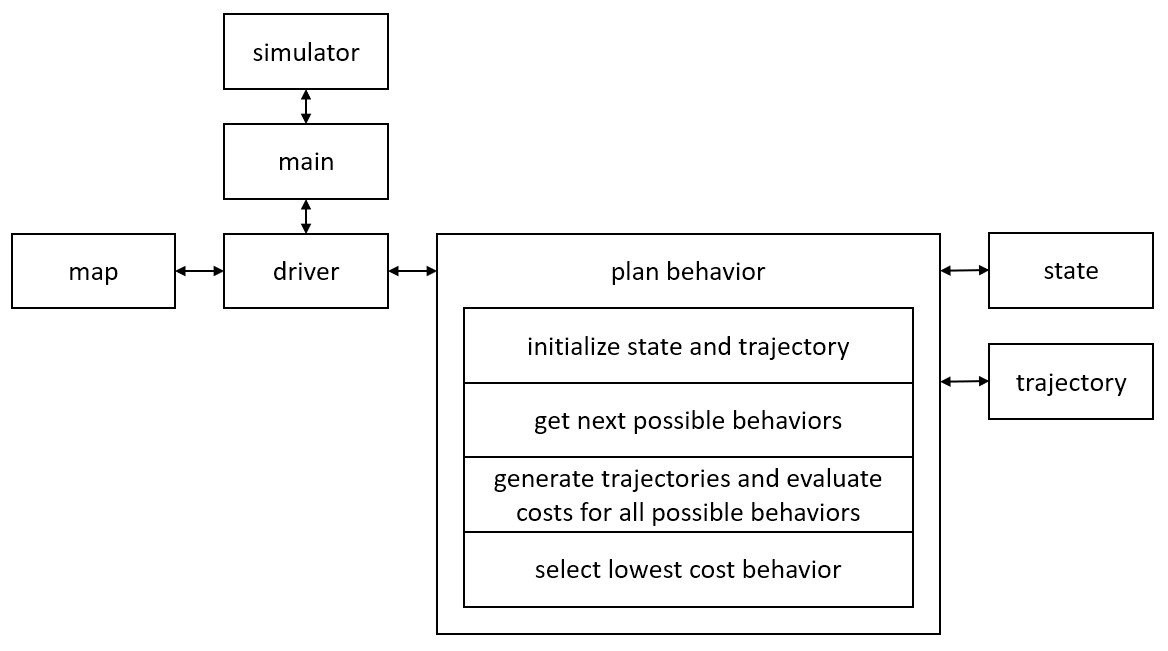
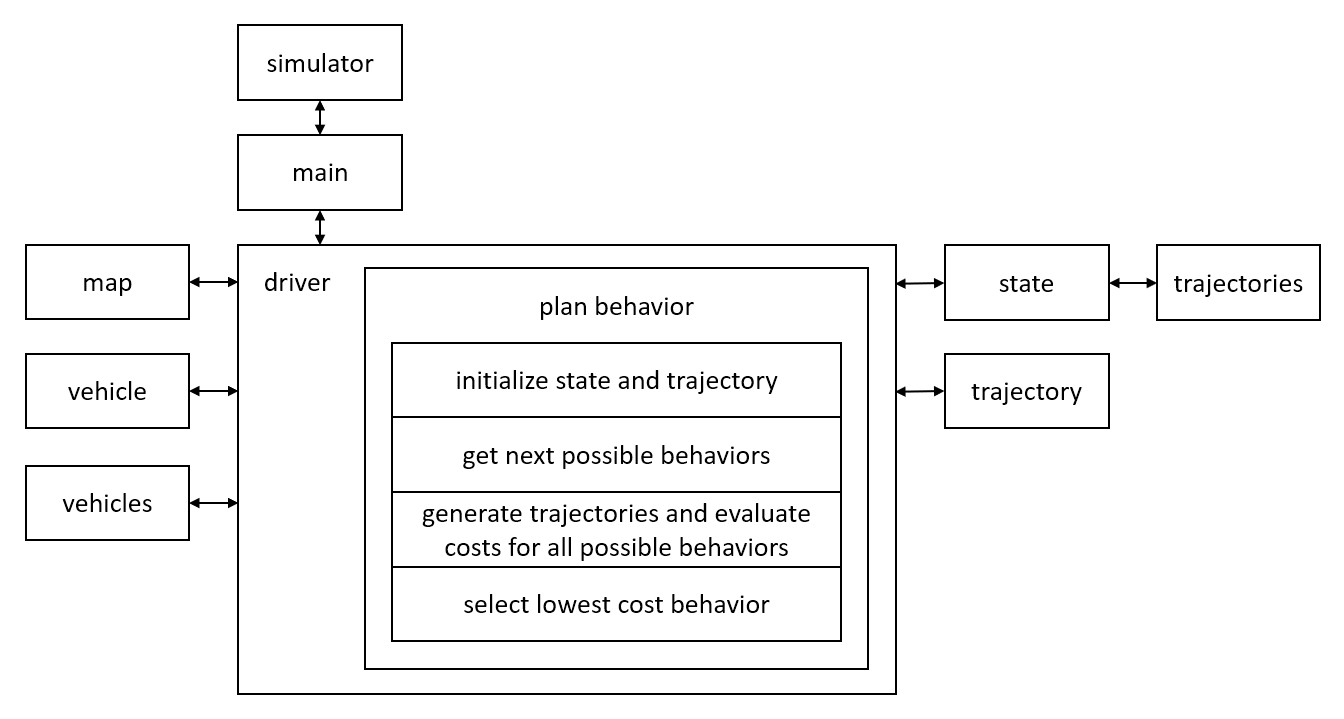
FINAL

diff --git a/README.md b/README.md
@@ -298,117 +298,301 @@ const long NO_STEP_INCREASE = 0;
 
 ### 1. Program flow
 
-Test
+The flow of the path planning program is defined by the interactions of its objects. The following chart visualizes on a very high level how the individual objects work together. The core of the program is the `PlanBehavior()` method of the `driver` object inside the `main()` function. It initializes and updates the state and trajectory object, determines the next possible behaviors (using the state object), calculates trajectories for all of these behaviors (using the state object which generates new trajectory objects) including their costs (using the individual trajectory objects as well as the objects for the own vehicle and other vehicles) and finally selects the lowest cost behavior.
 
 ![alt text][image1]
 
 ### 3. Finite state model
 
-Test
+The below finite state model is used to determine the next possible behavior. Longitudinal states (ACCELERATE, KEEP SPEED and DECELERATE) thermselves allow every possible transition inbetween them. But these transitions get limited by the selection of the lateral state (KEEP LANE, PREPARE LANE CHANGE LEFT, PREPARE LANE CHANGE RIGHT, CHANGE LANE LEFT and CHANGE LANE RIGHT) as indicated by the colors.
 
 ![alt text][image2]
 
 ### 4. Jerk minimizing trajectories
 
-Test
+The jerk minimizing trajectory formulas are implemented in the `helper_functions.cpp` file. The first step is to determine the coefficients for the polynomial. This is done using the matrix and vector functions below. The inputs are the state vector at the start `start` and end `end` of the trajectory as well as the duration `T` of the trajectory segment.
+
+```C
+// determine polynomial coefficients for jerk minimizing trajectory
+vector<double> JerkMinimizingTrajectoryCoefficients(vector<double> start, vector<double> end, double T) {
+	
+	// define variables
+	double T2 = 0.0;
+	double T3 = 0.0;
+	double T4 = 0.0;
+	double T5 = 0.0;
+	MatrixXd T_matrix(3, 3);
+	VectorXd diff_vector(3);
+	VectorXd poly_vector;
+	vector<double> poly;
+	
+	// determine time values
+	T2 = pow(T, 2);
+	T3 = pow(T, 3);
+	T4 = pow(T, 4);
+	T5 = pow(T, 5);
+	
+	// determine time matrix
+	T_matrix <<     T3,      T4,      T5,
+	            3 * T2,  4 * T3,  5 * T4,
+	             6 * T, 12 * T2, 20 * T3;
+	
+	// determine difference based on start and end
+	diff_vector << end[0] - (start[0] + start[1] * T + 0.5 * start[2] * T2),
+	               end[1] - (start[1] + start[2] * T),
+	               end[2] - (start[2]);
+	
+	// calculate polynomial coefficients vector
+	poly_vector = T_matrix.inverse() * diff_vector;
+	
+	// determine polynomial coefficients
+	poly = (vector<double>){start[0], start[1], (0.5 * start[2]), poly_vector[0], poly_vector[1], poly_vector[2]};
+	
+	return poly;
+	
+}
+```
+
+The final step is to calculate the state at any given time `t` within the trajectory segment. This is also implemented in the `helper_functions.cpp` file as follows:
+
+```C
+// determine states with jerk minimizing trajectory
+vector<double> JerkMinimizingTrajectoryState(vector<double> poly, vector<double> start, double t) {
+	
+	// define variables
+	double t2 = 0.0;
+	double t3 = 0.0;
+	double t4 = 0.0;
+	double t5 = 0.0;
+	double state = 0.0;
+	double state_d = 0.0;
+	double state_dd = 0.0;
+	double state_ddd = 0.0;
+	
+	//initialize outputs
+	vector<double> states;
+	
+	// determine time values
+	t2 = pow(t, 2);
+	t3 = pow(t, 3);
+	t4 = pow(t, 4);
+	t5 = pow(t, 5);
+		
+	// determine states
+	state     =      (start[0]) +       (start[1]) * t + (0.5 * start[2]) * t2 +        (poly[3]) * t3 +       (poly[4]) * t4 + (poly[5]) * t5;
+	state_d   =      (start[1]) +       (start[2]) * t +  (3.0 * poly[3]) * t2 +  (4.0 * poly[4]) * t3 + (5.0 * poly[5]) * t4;
+	state_dd  =      (start[2]) +  (6.0 * poly[3]) * t + (12.0 * poly[4]) * t2 + (20.0 * poly[5]) * t3;
+	state_ddd = (6.0 * poly[3]) + (24.0 * poly[4]) * t + (60.0 * poly[5]) * t2;
+	
+	return (vector<double>){state, state_d, state_dd, state_ddd};
+	
+}
+```
 
 ### 5. Cost functions
 
-In this project the prediction step of the particle filter assumes a linear bicycle motion model.
+The absolute core of a path planning algorithm is the tuning of cost functions to ensure expected and safe behavior of the artificial driver. Only 4 cost functions are needed to safely and efficiently drive in the simulator environment.
+
+First we need to always ensure that there is no collision. The `CostStepsToCollision()` method withing the `Vehicle` class calculates a cost based on the number of steps before a collision. 50 steps have been identified to be a good value for an average normalized cost of 0.5. Lower steps lead to higher cost and larger steps lead to lower cost as shown in the first diagram further below.
+
+```C
+// determine collision cost
+double Vehicle::CostStepsToCollision(Trajectory trajectory, vector<Vehicle> vehicles, const double &weight) {
+	
+	// define variables
+	unsigned long collision_steps = 0;
+	double cost_exp = 0.0;
+	
+	// initialize outputs
+	double cost = ZERO_COST;
+	
+	// check for collision and adjust cost
+	collision_steps = DetectCollision(trajectory, vehicles);
+	
+	// calculate cost
+	cost_exp = exp((NO_HARMFUL_COLLISION_STEPS - collision_steps) / COST_STEPS_TO_COLLISION_SHAPE_FACTOR);
+	cost = cost_exp / (cost_exp + 1);
+	
+	return cost;
+	
+}
+```
+
+Second we need ensure that there is always enough space on the left or right side of the own vehicle before making a lane change. The `CostSpaceInIntendedLane()` method withing the `Vehicle` class calculates either zero or maximum normalized cost based on whether there is space or there is not.
+
+```C
+// determine whether there is enough space in the intended lane
+double Vehicle::CostSpaceInIntendedLane(Trajectory trajectory, vector<Vehicle> vehicles, const double &weight) {
+	
+	// define variables
+	vector<Vehicle> vehicles_ahead;
+	vector<Vehicle> vehicles_behind;
+	unsigned int count = 0;
+	Vehicle current_vehicle;
+	double distance_to_current_vehicle = 0.0;
+	double minimum_distance_ahead = std::numeric_limits<double>::max();
+	Vehicle vehicle_ahead;
+	double minimum_distance_behind = std::numeric_limits<double>::max();
+	Vehicle vehicle_behind;
+	bool enough_space = false;
+	
+	// initialize outputs
+	double cost = ZERO_COST;
+	
+	// get vehicles in front and behind of own vehicle in intended lane
+	vehicles_ahead = this->Ahead(vehicles, trajectory.Get_intended_lane());
+	vehicles_behind = this->Behind(vehicles, trajectory.Get_intended_lane());
+	
+	// determine vehicle directly in front of own vehicle
+	...
+	
+	// determine vehicle directly behind of own vehicle
+	...
+	
+	// determine space needed
+	enough_space = ((minimum_distance_ahead >= (AHEAD_SPACE_FACTOR * vehicle_ahead.Get_length())) && (minimum_distance_behind >= (BEHIND_SPACE_FACTOR * vehicle_behind.Get_length())));
+	
+	// calculate cost
+	if (enough_space) {
+		
+		cost = ZERO_COST;
+		
+	} else {
+		
+		cost = weight * MAX_NORMALIZED_COST;
+		
+	}
+	
+	return cost;
+	
+}
+```
+
+Third we need to ensure that we always pick the fastest feasible lane to advance as quickly as possible. The `CostSpeedInIntendedLane()` method withing the `Vehicle` class calculates a cost based on the speed of the vehicle in the intended lane in front of our own vehicle. The cost is 0 at the maximum allowable speed and increases to 1 during a standstill as shown in the second diagram further below.
+
+```C
+// determine cost for speed in intended lane
+double Vehicle::CostSpeedInIntendedLane(Trajectory trajectory, vector<Vehicle> vehicles, const double &weight) {
+	
+	// define variables
+	vector<Vehicle> vehicles_ahead;
+	unsigned int count = 0;
+	Vehicle current_vehicle;
+	double distance_to_current_vehicle = 0.0;
+	double minimum_distance = std::numeric_limits<double>::max();
+	Vehicle vehicle_ahead;
+	double lane_speed = 0.0;
+	
+	// initialize outputs
+	double cost = ZERO_COST;
+	
+	// get vehicles in front of own vehicle in intended lane
+	vehicles_ahead = this->Ahead(vehicles, trajectory.Get_intended_lane());
+	
+	// determine vehicle directly in front of own vehicle
+	...
+	
+	// get speed of intended lane
+	if (minimum_distance > VEHICLE_AHEAD_WITHIN_DISTANCE) {
+		
+		lane_speed = MAX_SPEED;
+		
+	} else {
+		
+		lane_speed = min(vehicle_ahead.Get_v(), MAX_SPEED);
+		
+	}
+	
+	// calculate cost
+	cost = weight * (-(lane_speed - MAX_SPEED) / ((COST_SPEED_IN_INTENDED_LANE_SHAPE_FACTOR * lane_speed) + MAX_SPEED));
+	
+	return cost;
+	
+}
+```
+
+Forth we must not forget that while driving safe is key we also need to advance. The `CostTravelDistance()` method withing the `Vehicle` class calculates a cost based on how far the trajectory reaches. The cost is 0 at the distance that you can achieve driving at the maximum allowable speed limit in the given time interval and increases to 1 during a standstill with no travel as shown in the third diagram further below.
+
+```C
+// determine cost for travel distance
+double Vehicle::CostTravelDistance(Trajectory trajectory, const double &weight) {
+	
+	// define variables
+	double travel_distance = 0.0;
+	
+	// initialize outputs
+	double cost = ZERO_COST;
+	
+	// calculate travel distance
+	travel_distance = trajectory.Get_s()[trajectory.Get_s().size() - 1] - this->Get_s();
+	
+	// calculate cost
+	cost = weight * (-(travel_distance - MAX_TRAVEL_DISTANCE) / ((COST_TRAVEL_DISTANCE_SHAPE_FACTOR * travel_distance) + MAX_TRAVEL_DISTANCE));
+	
+	return cost;
+	
+}
+```
 
 <img src="docu_images/190119_StAn_Udacity_SDCND_PP_Cost_Function_Collision.jpg" width="32%"> <img src="docu_images/190119_StAn_Udacity_SDCND_PP_Cost_Function_Speed.jpg" width="32%"> <img src="docu_images/190119_StAn_Udacity_SDCND_PP_Cost_Function_Travel.jpg" width="32%">
 
+It is important to note that the absolute cost is actually not that important. The important characteristic is the relative cost difference between the individual trajectories. Therefore, areas in the cost function with large changes lead to larger changes between trajectories with different input values to the cost function. This is important to consider when tuning and balancing cost functions to pick one trajectory over the other. For example a less aggressive driver that stays further away from other vehicles would need a `CostStepsToCollision()` method that has larger changes at lower number of steps before a collision (above diagram on the left). The current setting uses high, but also very flat cost and hence leads to an aggressive driving behavior.
+
 ### 6. Debugging environment
 
+In order to debug the path planning program efficiently, several functions have been added to display the content of all the input and output variables of each relevant object method.
 
-
-The distance between two points is calculated with the following function:
+The debug options are controlled by the following constants within the `helper_functions.h()` file. If `bFILEOUTPUT` is `true`, the standard output is redirected into the file `out.txt` (inside the `build` folder). If `bDISPLAY` is `true`, more information about input and output variables is displayed to the standard output. There is a constant boolean for each relevant method to turn debugging of its inputs and outputs on or off. As vehicle and trajectory objects can have a lot of content, there are two global parameters that control whether the content of these objects is displayed or not (`bDISPLAY_VEHICLES`, `bDISPLAY_TRAJECTORIES`).
 
 ```C
-inline double dist(double x1, double y1, double x2, double y2) {
-	return sqrt((x2 - x1) * (x2 - x1) + (y2 - y1) * (y2 - y1));
-}
+const bool bFILEOUTPUT = true;
+const string OUTPUT_FILENAME = "out.txt";
+const bool bDISPLAY = true;
+const bool bDISPLAY_DRIVER_PLANBEHAVIOR = true;
+const bool bDISPLAY_DRIVER_SETVEHICLES = false;
+const bool bDISPLAY_MAP_INIT = false;
+const bool bDISPLAY_MAP_XY2FRENET = false;
+const bool bDISPLAY_MAP_FRENET2XY = false;
+const bool bDISPLAY_MAP_CLOSESTWAYPOINT = false;
+const bool bDISPLAY_MAP_NEXTWAYPOINT = false;
+const bool bDISPLAY_VEHICLES = false;
+const bool bDISPLAY_VEHICLE_UPDATE = false;
+const bool bDISPLAY_VEHICLE_AHEAD = false;
+const bool bDISPLAY_VEHICLE_BEHIND = false;
+const bool bDISPLAY_VEHICLE_PREDICTTRAJECTORY = false;
+const bool bDISPLAY_VEHICLE_GETLANED = false;
+const bool bDISPLAY_VEHICLE_DETERMINELANE = false;
+const bool bDISPLAY_VEHICLE_CHECKINSIDELANE = false;
+const bool bDISPLAY_VEHICLE_DETECTCOLLISION = false;
+const bool bDISPLAY_VEHICLE_COSTSTEPSTOCOLLISION = false;
+const bool bDISPLAY_VEHICLE_COSTSPACEININTENDEDLANE = false;
+const bool bDISPLAY_VEHICLE_COSTSPEEDININTENDEDLANE = false;
+const bool bDISPLAY_VEHICLE_COSTTRAVELDISTANCE = false;
+const bool bDISPLAY_VEHICLE_TRAJECTORYCOST = true;
+const bool bDISPLAY_PATH_SET = false;
+const bool bDISPLAY_TRAJECTORIES = false;
+const bool bDISPLAY_TRAJECTORY_INIT = false;
+const bool bDISPLAY_TRAJECTORY_START = false;
+const bool bDISPLAY_TRAJECTORY_ADD = false;
+const bool bDISPLAY_TRAJECTORY_ADDJERKMINIMIZINGTRAJECTORY = false;
+const bool bDISPLAY_TRAJECTORY_GENERATE = false;
+const bool bDISPLAY_TRAJECTORY_VALID = false;
+const bool bDISPLAY_TRAJECTORY_REMOVEFIRSTSTEPS = false;
+const bool bDISPLAY_TRAJECTORY_KEEPFIRSTSTEPS = false;
+const bool bDISPLAY_STATE_INIT = true;
+const bool bDISPLAY_STATE_SETBEHAVIOR = false;
+const bool bDISPLAY_STATE_GETNEXTPOSSIBLEBEHAVIORS = true;
+const bool bDISPLAY_STATE_GENERATETRAJECTORYFROMBEHAVIOR = false;
+const string DISPLAY_PREFIX = "    ";
+const unsigned int DISPLAY_COLUMN_WIDTH = 15;
 ```
 
-The transformation between vehicle coordinates (observations with change/distance relative to the vehicle) and global map coordinates (particles with position as offset and heading angle alpha) is calculated with the following equations:
+The below functions inside the `helper_functions.cpp` file are used to convert the variable contents into a single string that can be displayed. Also, each object contains a `CreateString()` method to convert its content into a single string.
 
 ```C
-	// transformations
-	x_map = x_offset_map + (cos(alpha) * x_change_relative) - (sin(alpha) * y_change_relative);
-	y_map = y_offset_map + (sin(alpha) * x_change_relative) + (cos(alpha) * y_change_relative);
-```
-
-The [multi-variate Gaussian distribution](https://en.wikipedia.org/wiki/Multivariate_normal_distribution) is calculated with the following function:
-
-```C
-inline double mvg(double x_value, double y_value, double mu_x, double mu_y, double s_x, double s_y) {
-	return (1 / (2 * M_PI * s_x * s_y)) * exp(-((pow(x_value - mu_x, 2) / (2 * pow(s_x, 2))) + (pow(y_value - mu_y, 2) / (2 * pow(s_y, 2)))));
-}
-```
-
-The flow of the particle filter in each step is defined by the following sequence of methods:
-
-```C
-ParticleFilter pf;
-...
-in each step do {
-	if (!pf.initialized()) {
-		pf.init(...);
-	}
-	else {
-		pf.prediction(...);
-	}
-	pf.UpdateWeights(...);
-	pf.resample(...);
-}
-```
-
-In the first step the `pf.init()` method initializes all particles with a random distribution around a first estimate for the location. The random noise is added to each particle's location with the method `addNoise()`.
-
-The `pf.prediction()` method uses the above described linear bicycle motion model to calculate the location of all particles after the duration `delta_t`. It also adds random noise to each particle's location with the method `addNoise()`. This ensures that we consider new and potentially better particle locations in each step.
-
-The `pf.UpdateWeights()` method executes a sequence of steps for all particles to update their weights based on the new observations (i.e. measurements). First it determines the map landmarks within the sensor range of the particle's location. Then it uses the above mentioned equations to transform the vehicle observations into global map coordinates for the particle. After this it uses the [nearest neighbor method](https://en.wikipedia.org/wiki/Nearest_neighbor_search) to associate the observations in global map coordinates to the map landmarks within the sensor range. And finally it calculates the new weight for the particle as multiplication of the probabilities that each observation is close to the associated landmark. The [multi-variate Gaussian distribution](https://en.wikipedia.org/wiki/Multivariate_normal_distribution) function from above is used to determine the probability that the observation in global map coordinates is equal to the associated landmark.
-
-The `pf.resample()` method is then used to draw a new list of particles from the existing list of particles. The weight of each particle is used as probability during this drawing process. This ensures that more likely and therefore more accurate particle locations get drawn more often into the new list of particles. The new list of particles contains the same number of particles as before.
-
-### 3. Debugging environment
-
-In order to debug the particle filter efficiently, several methods have been added to display the content of all the input and output variables of each relevant function.
-
-The debug options of the `main()` function are selected with the below parameters. If `bFILEOUTPUT` is `true`, the standard output is redirected into the file `out.txt`. If `bDISPLAY` is `true`, more information about input and output variables is displayed to the standard output. If `bTest` is `true`, a predefined set of inputs is used to run and check the particle filter instead of connecting it to the simulator environment.
-
-```C
-const bool bFILEOUTPUT = false;
-const bool bDISPLAY = false;
-const bool bTEST = false;
-```
-
-Inside the particle filter object, all methods can display their input and output variables to the standard output. The parameter `bDISPLAY` must be `true` to enable any of these features. The debugging feature of each particle filter method can be turned on by setting the parameter `bDISPLAY_<name of method>` to `true`. The available method names are listed below.
-
-```C
-const bool bDISPLAY = false;
-const bool bDISPLAY_init = true;
-const bool bDISPLAY_prediction = true;
-const bool bDISPLAY_dataAssociation = false;
-const bool bDISPLAY_updateWeights = true;
-const bool bDISPLAY_resample = true;
-const bool bDISPLAY_SetAssociations = false;
-const bool bDISPLAY_addNoise = false;
-const bool bDISPLAY_getMapLandmark = false;
-const bool bDISPLAY_transformVehicle2Map = false;
-```
-
-The following methods are used to convert the variable contents into a single string that can be displayed:
-
-```C
-std::string createDoubleVectorString(std::vector<double> double_vector);
-std::string createIntegerVectorString(std::vector<int> int_vector);
-std::string createArrayString(double array[], unsigned int num_elements);
-std::string createParticleString(Particle particle);
-std::string createParticlesString(std::vector<Particle> particles);
-std::string createLandmarkString(LandmarkObs landmark);
-std::string createLandmarksString(std::vector<LandmarkObs> landmarks);
-std::string createMapString(Map map);
+string CreateDoubleVectorString(const vector<double> &double_vector);
+string CreateDoubleVectorsString(const vector<vector<double>> &double_vectors);
+string CreateUnsignedIntegerVectorString(const vector<unsigned int> &int_vector);
 ```
 
 ## 4. Execution
